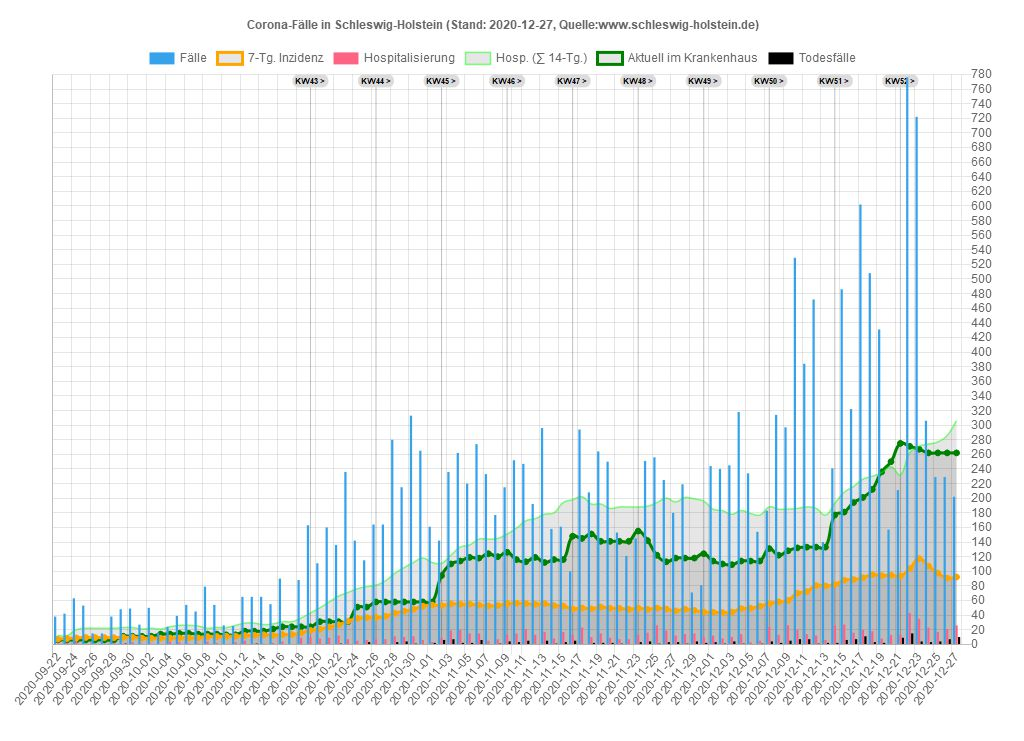
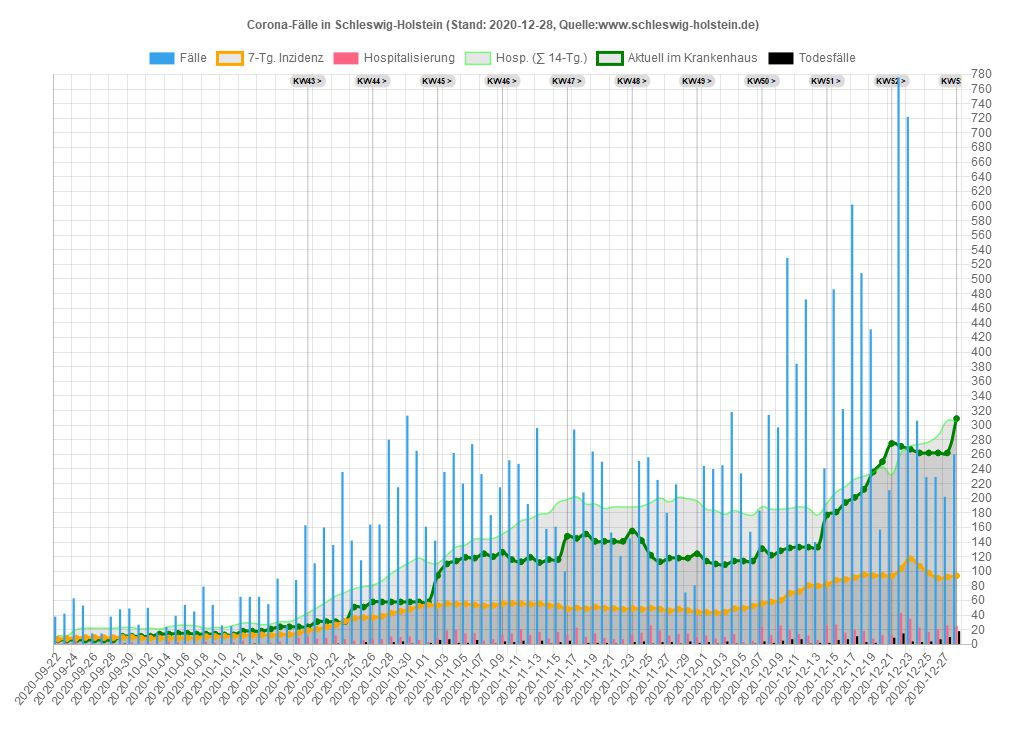
28.12.2020 20:23:44,13

Changed region(s): [[0.0625, 0.0931, 0.9375, 0.9622]]

diff --git a/sh/Data_SH.js b/sh/Data_SH.js
@@ -1,33 +1,33 @@
 var chdata={
-labels: ["2020-09-22","2020-09-23","2020-09-24","2020-09-25","2020-09-26","2020-09-27","2020-09-28","2020-09-29","2020-09-30","2020-10-01","2020-10-02","2020-10-03","2020-10-04","2020-10-05","2020-10-06","2020-10-07","2020-10-08","2020-10-09","2020-10-10","2020-10-11","2020-10-12","2020-10-13","2020-10-14","2020-10-15","2020-10-16","2020-10-17","2020-10-18","2020-10-19","2020-10-20","2020-10-21","2020-10-22","2020-10-23","2020-10-24","2020-10-25","2020-10-26","2020-10-27","2020-10-28","2020-10-29","2020-10-30","2020-10-31","2020-11-01","2020-11-02","2020-11-03","2020-11-04","2020-11-05","2020-11-06","2020-11-07","2020-11-08","2020-11-09","2020-11-10","2020-11-11","2020-11-12","2020-11-13","2020-11-14","2020-11-15","2020-11-16","2020-11-17","2020-11-18","2020-11-19","2020-11-20","2020-11-21","2020-11-22","2020-11-23","2020-11-24","2020-11-25","2020-11-26","2020-11-27","2020-11-28","2020-11-29","2020-11-30","2020-12-01","2020-12-02","2020-12-03","2020-12-04","2020-12-05","2020-12-06","2020-12-07","2020-12-08","2020-12-09","2020-12-10","2020-12-11","2020-12-12","2020-12-13","2020-12-14","2020-12-15","2020-12-16","2020-12-17","2020-12-18","2020-12-19","2020-12-20","2020-12-21","2020-12-22","2020-12-23","2020-12-24","2020-12-25","2020-12-26","2020-12-27"],
+labels: ["2020-09-22","2020-09-23","2020-09-24","2020-09-25","2020-09-26","2020-09-27","2020-09-28","2020-09-29","2020-09-30","2020-10-01","2020-10-02","2020-10-03","2020-10-04","2020-10-05","2020-10-06","2020-10-07","2020-10-08","2020-10-09","2020-10-10","2020-10-11","2020-10-12","2020-10-13","2020-10-14","2020-10-15","2020-10-16","2020-10-17","2020-10-18","2020-10-19","2020-10-20","2020-10-21","2020-10-22","2020-10-23","2020-10-24","2020-10-25","2020-10-26","2020-10-27","2020-10-28","2020-10-29","2020-10-30","2020-10-31","2020-11-01","2020-11-02","2020-11-03","2020-11-04","2020-11-05","2020-11-06","2020-11-07","2020-11-08","2020-11-09","2020-11-10","2020-11-11","2020-11-12","2020-11-13","2020-11-14","2020-11-15","2020-11-16","2020-11-17","2020-11-18","2020-11-19","2020-11-20","2020-11-21","2020-11-22","2020-11-23","2020-11-24","2020-11-25","2020-11-26","2020-11-27","2020-11-28","2020-11-29","2020-11-30","2020-12-01","2020-12-02","2020-12-03","2020-12-04","2020-12-05","2020-12-06","2020-12-07","2020-12-08","2020-12-09","2020-12-10","2020-12-11","2020-12-12","2020-12-13","2020-12-14","2020-12-15","2020-12-16","2020-12-17","2020-12-18","2020-12-19","2020-12-20","2020-12-21","2020-12-22","2020-12-23","2020-12-24","2020-12-25","2020-12-26","2020-12-27","2020-12-28"],
 datasets: [
 {label: 'Fälle',
 type: 'bar',
 backgroundColor: window.chartColors.blue,
-data: [38,42,63,53,15,15,38,48,49,27,50,16,24,39,54,45,79,54,26,25,65,65,65,55,90,26,88,163,111,160,136,236,142,115,164,164,280,215,313,265,161,142,236,262,220,274,233,177,215,252,247,192,296,158,161,100,294,208,264,250,153,121,145,251,256,225,180,219,71,81,244,240,245,318,234,154,183,314,297,529,384,472,140,241,486,322,602,508,431,157,211,776,722,306,229,229,202]},
+data: [38,42,63,53,15,15,38,48,49,27,50,16,24,39,54,45,79,54,26,25,65,65,65,55,90,26,88,163,111,160,136,236,142,115,164,164,280,215,313,265,161,142,236,262,220,274,233,177,215,252,247,192,296,158,161,100,294,208,264,250,153,121,145,251,256,225,180,219,71,81,244,240,245,318,234,154,183,314,297,529,384,472,140,241,486,322,602,508,431,157,211,776,722,306,229,229,202,260]},
 {label: '7-Tg. Inzidenz',
 type: 'line',
 pointBackgroundColor: 'orange',
 borderColor: 'orange',
-data: [7.23197027,7.88629139,8.74724023,9.40156135,9.33268544,9.16049567,9.09161977,9.4359993,9.67706498,8.43729865,8.33398478,8.36842274,8.67836432,8.71280227,8.91943,8.78167818,10.5724518,10.7102036,11.0545831,11.0890211,11.9844079,12.3632254,13.0519844,12.2254735,13.4652399,13.4652399,15.634831,19.0097504,20.5938963,23.8655019,26.6549761,31.6829174,35.67772,36.6075447,36.6419827,38.4671942,42.5997487,45.320347,47.9720694,52.2079377,53.7920836,53.0344486,55.5139813,54.8940981,55.0662879,53.7232077,52.6211932,53.1722004,55.6861711,56.2371783,55.720609,54.7563463,55.5139813,52.9311348,52.3801275,48.4197628,49.8661569,48.5230767,51.0026094,49.4184635,49.2462737,47.8687556,49.4184635,47.9376315,49.5906533,48.2475731,45.8369163,48.1098213,46.3879236,44.1838945,43.9428289,43.3918216,44.0805807,48.8330183,49.3495876,52.2079377,55.720609,58.1312658,60.0942291,69.874608,72.1475129,80.3437459,79.8616145,81.8590158,87.7823439,88.6432927,91.1572633,95.4275696,94.0156135,94.6010587,93.5679201,103.554927,117.330108,107.136474,97.5282848,90.5718181,92.121526]},
+data: [7.23197027,7.88629139,8.74724023,9.40156135,9.33268544,9.16049567,9.09161977,9.4359993,9.67706498,8.43729865,8.33398478,8.36842274,8.67836432,8.71280227,8.91943,8.78167818,10.5724518,10.7102036,11.0545831,11.0890211,11.9844079,12.3632254,13.0519844,12.2254735,13.4652399,13.4652399,15.634831,19.0097504,20.5938963,23.8655019,26.6549761,31.6829174,35.67772,36.6075447,36.6419827,38.4671942,42.5997487,45.320347,47.9720694,52.2079377,53.7920836,53.0344486,55.5139813,54.8940981,55.0662879,53.7232077,52.6211932,53.1722004,55.6861711,56.2371783,55.720609,54.7563463,55.5139813,52.9311348,52.3801275,48.4197628,49.8661569,48.5230767,51.0026094,49.4184635,49.2462737,47.8687556,49.4184635,47.9376315,49.5906533,48.2475731,45.8369163,48.1098213,46.3879236,44.1838945,43.9428289,43.3918216,44.0805807,48.8330183,49.3495876,52.2079377,55.720609,58.1312658,60.0942291,69.874608,72.1475129,80.3437459,79.8616145,81.8590158,87.7823439,88.6432927,91.1572633,95.4275696,94.0156135,94.6010587,93.5679201,103.554927,117.330108,107.136474,97.5282848,90.5718181,92.121526,93.8089858]},
 {label: 'Hospitalisierung',
 type: 'bar',
 backgroundColor: window.chartColors.red,
-data: [1,2,7,1,0,0,2,1,3,1,1,0,4,3,1,1,4,2,0,3,5,1,1,2,4,0,9,10,8,9,12,7,5,6,7,7,11,10,11,6,3,9,19,20,15,15,5,7,13,15,21,13,17,8,17,13,23,10,15,9,7,7,13,16,26,19,12,14,15,10,12,8,10,14,3,5,24,13,26,20,14,12,6,26,27,16,20,18,8,13,13,43,35,23,17,21,26]},
+data: [1,2,7,1,0,0,2,1,3,1,1,0,4,3,1,1,4,2,0,3,5,1,1,2,4,0,9,10,8,9,12,7,5,6,7,7,11,10,11,6,3,9,19,20,15,15,5,7,13,15,21,13,17,8,17,13,23,10,15,9,7,7,13,16,26,19,12,14,15,10,12,8,10,14,3,5,24,13,26,20,14,12,6,26,27,16,20,18,8,13,13,43,35,23,17,21,26,25]},
 {label: 'Hosp. (∑ 14-Tg.)',
 type: 'line',
 borderColor: 'rgba(0,255,0,0.5)',
 borderWidth: 1.5,
 pointRadius: 0,
-data: [12,12,20,22,22,22,22,23,23,21,22,21,24,26,26,25,22,23,23,26,29,29,27,28,31,31,36,43,50,58,66,71,76,79,81,87,97,105,112,118,112,111,122,133,136,144,144,145,151,159,169,172,178,180,194,198,202,192,192,186,188,188,188,189,194,200,195,201,199,196,185,183,178,183,179,177,188,185,185,186,188,186,177,193,208,216,226,230,235,243,232,262,271,274,277,286,306]},
+data: [12,12,20,22,22,22,22,23,23,21,22,21,24,26,26,25,22,23,23,26,29,29,27,28,31,31,36,43,50,58,66,71,76,79,81,87,97,105,112,118,112,111,122,133,136,144,144,145,151,159,169,172,178,180,194,198,202,192,192,186,188,188,188,189,194,200,195,201,199,196,185,183,178,183,179,177,188,185,185,186,188,186,177,193,208,216,226,230,235,243,232,262,271,274,277,286,306,305]},
 {label: 'Aktuell im Krankenhaus',
 type: 'line',
 pointBackgroundColor: 'green',
 borderColor: 'green',
-data: [6,6,6,6,6,6,6,11,11,11,11,14,14,15,15,14,14,14,13,13,18,18,18,21,24,24,24,24,31,31,31,31,51,51,58,58,58,58,58,58,58,94,110,114,119,118,124,120,126,116,113,119,112,116,116,148,145,151,141,141,141,141,155,142,122,113,118,118,118,124,114,110,109,114,114,114,131,122,128,132,133,133,133,177,181,194,201,212,236,250,275,271,267,262,262,262,262]},
+data: [6,6,6,6,6,6,6,11,11,11,11,14,14,15,15,14,14,14,13,13,18,18,18,21,24,24,24,24,31,31,31,31,51,51,58,58,58,58,58,58,58,94,110,114,119,118,124,120,126,116,113,119,112,116,116,148,145,151,141,141,141,141,155,142,122,113,118,118,118,124,114,110,109,114,114,114,131,122,128,132,133,133,133,177,181,194,201,212,236,250,275,271,267,262,262,262,262,309]},
 {label: 'Todesfälle',
 type: 'bar',
 backgroundColor: 'black',
-data: [0,0,0,0,0,0,0,1,0,0,0,0,0,0,0,0,0,0,0,0,0,1,0,0,0,0,0,0,0,0,1,0,0,3,0,0,3,4,1,0,2,6,7,2,2,6,0,1,4,3,5,0,5,1,3,5,0,2,2,2,1,0,3,4,1,3,3,1,4,2,3,1,4,1,0,1,4,2,5,7,7,1,2,2,6,7,11,3,2,0,9,15,4,3,4,7,10]},
+data: [0,0,0,0,0,0,0,1,0,0,0,0,0,0,0,0,0,0,0,0,0,1,0,0,0,0,0,0,0,0,1,0,0,3,0,0,3,4,1,0,2,6,7,2,2,6,0,1,4,3,5,0,5,1,3,5,0,2,2,2,1,0,3,4,1,3,3,1,4,2,3,1,4,1,0,1,4,2,5,7,7,1,2,2,6,7,11,3,2,0,9,15,4,3,4,7,10,18]},
 ]};
 

diff --git a/sh/Data_SH_Alter.js b/sh/Data_SH_Alter.js
@@ -107,7 +107,8 @@ var chdata={
 				{x: '2020-12-24', y: 'Alle', v: 106.206649, casesum: 3084},{x: '2020-12-24', y: '00-09', v: 40.1212206, casesum: 103},{x: '2020-12-24', y: '10-19', v: 103.258251, casesum: 285},{x: '2020-12-24', y: '20-29', v: 147.517518, casesum: 472},{x: '2020-12-24', y: '30-39', v: 122.586577, casesum: 412},{x: '2020-12-24', y: '40-49', v: 121.427741, casesum: 428},{x: '2020-12-24', y: '50-59', v: 102.341336, casesum: 507},{x: '2020-12-24', y: '60-69', v: 85.5500234, casesum: 311},{x: '2020-12-24', y: '70-79', v: 52.0391578, casesum: 154},{x: '2020-12-24', y: '80-89', v: 159.35854, casesum: 285},{x: '2020-12-24', y: '90+', v: 440.727374, casesum: 127},
 				{x: '2020-12-25', y: 'Alle', v: 97.0805914, casesum: 2819},{x: '2020-12-25', y: '00-09', v: 35.0573772, casesum: 90},{x: '2020-12-25', y: '10-19', v: 93.8381998, casesum: 259},{x: '2020-12-25', y: '20-29', v: 132.515736, casesum: 424},{x: '2020-12-25', y: '30-39', v: 113.66037, casesum: 382},{x: '2020-12-25', y: '40-49', v: 105.539999, casesum: 372},{x: '2020-12-25', y: '50-59', v: 96.2856353, casesum: 477},{x: '2020-12-25', y: '60-69', v: 78.9480923, casesum: 287},{x: '2020-12-25', y: '70-79', v: 46.632492, casesum: 138},{x: '2020-12-25', y: '80-89', v: 152.089554, casesum: 272},{x: '2020-12-25', y: '90+', v: 409.494725, casesum: 118},
 				{x: '2020-12-26', y: 'Alle', v: 90.2963145, casesum: 2622},{x: '2020-12-26', y: '00-09', v: 29.9935339, casesum: 77},{x: '2020-12-26', y: '10-19', v: 83.6935295, casesum: 231},{x: '2020-12-26', y: '20-29', v: 120.014252, casesum: 384},{x: '2020-12-26', y: '30-39', v: 108.007105, casesum: 363},{x: '2020-12-26', y: '40-49', v: 97.0287086, casesum: 342},{x: '2020-12-26', y: '50-59', v: 87.0002281, casesum: 431},{x: '2020-12-26', y: '60-69', v: 75.9222072, casesum: 276},{x: '2020-12-26', y: '70-79', v: 44.6049924, casesum: 132},{x: '2020-12-26', y: '80-89', v: 148.734637, casesum: 266},{x: '2020-12-26', y: '90+', v: 416.435314, casesum: 120},
-				{x: '2020-12-27', y: 'Alle', v: 91.8115844, casesum: 2666},{x: '2020-12-27', y: '00-09', v: 29.9935339, casesum: 77},{x: '2020-12-27', y: '10-19', v: 78.983504, casesum: 218},{x: '2020-12-27', y: '20-29', v: 120.639326, casesum: 386},{x: '2020-12-27', y: '30-39', v: 108.304645, casesum: 364},{x: '2020-12-27', y: '40-49', v: 97.3124183, casesum: 343},{x: '2020-12-27', y: '50-59', v: 87.2020848, casesum: 432},{x: '2020-12-27', y: '60-69', v: 75.3720463, casesum: 274},{x: '2020-12-27', y: '70-79', v: 49.6737415, casesum: 147},{x: '2020-12-27', y: '80-89', v: 159.917693, casesum: 286},{x: '2020-12-27', y: '90+', v: 482.370905, casesum: 139}
+				{x: '2020-12-27', y: 'Alle', v: 91.8115844, casesum: 2666},{x: '2020-12-27', y: '00-09', v: 29.9935339, casesum: 77},{x: '2020-12-27', y: '10-19', v: 78.983504, casesum: 218},{x: '2020-12-27', y: '20-29', v: 120.639326, casesum: 386},{x: '2020-12-27', y: '30-39', v: 108.304645, casesum: 364},{x: '2020-12-27', y: '40-49', v: 97.3124183, casesum: 343},{x: '2020-12-27', y: '50-59', v: 87.2020848, casesum: 432},{x: '2020-12-27', y: '60-69', v: 75.3720463, casesum: 274},{x: '2020-12-27', y: '70-79', v: 49.6737415, casesum: 147},{x: '2020-12-27', y: '80-89', v: 159.917693, casesum: 286},{x: '2020-12-27', y: '90+', v: 482.370905, casesum: 139},
+				{x: '2020-12-28', y: 'Alle', v: 93.7056719, casesum: 2721},{x: '2020-12-28', y: '00-09', v: 31.1621131, casesum: 80},{x: '2020-12-28', y: '10-19', v: 73.5488593, casesum: 203},{x: '2020-12-28', y: '20-29', v: 125.63992, casesum: 402},{x: '2020-12-28', y: '30-39', v: 113.362829, casesum: 381},{x: '2020-12-28', y: '40-49', v: 99.298386, casesum: 350},{x: '2020-12-28', y: '50-59', v: 88.4132248, casesum: 438},{x: '2020-12-28', y: '60-69', v: 71.5209199, casesum: 260},{x: '2020-12-28', y: '70-79', v: 50.0116581, casesum: 148},{x: '2020-12-28', y: '80-89', v: 171.659901, casesum: 307},{x: '2020-12-28', y: '90+', v: 527.484731, casesum: 152}
 			],
 			backgroundColor: function(context) {
 				return inzColor(context.dataset.data[context.dataIndex].v)
@@ -115,7 +116,7 @@ var chdata={
 			width: function(context) {
 				const a = context.chart.chartArea
 				if (!a) return 0
-				return (a.right - a.left) / 104.5
+				return (a.right - a.left) / 105.5
 			},
 			height: function(context) {
 				const a = context.chart.chartArea
@@ -127,7 +128,7 @@ var chdata={
 	options: {
 		legend: { display: false },
 		scales: {
-			xAxes: [{type: 'category', labels: ["2020-09-15","2020-09-16","2020-09-17","2020-09-18","2020-09-19","2020-09-20","2020-09-21","2020-09-22","2020-09-23","2020-09-24","2020-09-25","2020-09-26","2020-09-27","2020-09-28","2020-09-29","2020-09-30","2020-10-01","2020-10-02","2020-10-03","2020-10-04","2020-10-05","2020-10-06","2020-10-07","2020-10-08","2020-10-09","2020-10-10","2020-10-11","2020-10-12","2020-10-13","2020-10-14","2020-10-15","2020-10-16","2020-10-17","2020-10-18","2020-10-19","2020-10-20","2020-10-21","2020-10-22","2020-10-23","2020-10-24","2020-10-25","2020-10-26","2020-10-27","2020-10-28","2020-10-29","2020-10-30","2020-10-31","2020-11-01","2020-11-02","2020-11-03","2020-11-04","2020-11-05","2020-11-06","2020-11-07","2020-11-08","2020-11-09","2020-11-10","2020-11-11","2020-11-12","2020-11-13","2020-11-14","2020-11-15","2020-11-16","2020-11-17","2020-11-18","2020-11-19","2020-11-20","2020-11-21","2020-11-22","2020-11-23","2020-11-24","2020-11-25","2020-11-26","2020-11-27","2020-11-28","2020-11-29","2020-11-30","2020-12-01","2020-12-02","2020-12-03","2020-12-04","2020-12-05","2020-12-06","2020-12-07","2020-12-08","2020-12-09","2020-12-10","2020-12-11","2020-12-12","2020-12-13","2020-12-14","2020-12-15","2020-12-16","2020-12-17","2020-12-18","2020-12-19","2020-12-20","2020-12-21","2020-12-22","2020-12-23","2020-12-24","2020-12-25","2020-12-26","2020-12-27",], ticks: {display: true},gridlines:{display:false}}],
+			xAxes: [{type: 'category', labels: ["2020-09-15","2020-09-16","2020-09-17","2020-09-18","2020-09-19","2020-09-20","2020-09-21","2020-09-22","2020-09-23","2020-09-24","2020-09-25","2020-09-26","2020-09-27","2020-09-28","2020-09-29","2020-09-30","2020-10-01","2020-10-02","2020-10-03","2020-10-04","2020-10-05","2020-10-06","2020-10-07","2020-10-08","2020-10-09","2020-10-10","2020-10-11","2020-10-12","2020-10-13","2020-10-14","2020-10-15","2020-10-16","2020-10-17","2020-10-18","2020-10-19","2020-10-20","2020-10-21","2020-10-22","2020-10-23","2020-10-24","2020-10-25","2020-10-26","2020-10-27","2020-10-28","2020-10-29","2020-10-30","2020-10-31","2020-11-01","2020-11-02","2020-11-03","2020-11-04","2020-11-05","2020-11-06","2020-11-07","2020-11-08","2020-11-09","2020-11-10","2020-11-11","2020-11-12","2020-11-13","2020-11-14","2020-11-15","2020-11-16","2020-11-17","2020-11-18","2020-11-19","2020-11-20","2020-11-21","2020-11-22","2020-11-23","2020-11-24","2020-11-25","2020-11-26","2020-11-27","2020-11-28","2020-11-29","2020-11-30","2020-12-01","2020-12-02","2020-12-03","2020-12-04","2020-12-05","2020-12-06","2020-12-07","2020-12-08","2020-12-09","2020-12-10","2020-12-11","2020-12-12","2020-12-13","2020-12-14","2020-12-15","2020-12-16","2020-12-17","2020-12-18","2020-12-19","2020-12-20","2020-12-21","2020-12-22","2020-12-23","2020-12-24","2020-12-25","2020-12-26","2020-12-27","2020-12-28",], ticks: {display: true},gridlines:{display:false}}],
 			yAxes: [{type: 'category', labels: ["Alle","00-09","10-19","20-29","30-39","40-49","50-59","60-69","70-79","80-89","90+"], offset:true, ticks: {display: true},gridlines:{display:false}}],
 		},
 	}

diff --git a/sh/Kreis_PI.js b/sh/Kreis_PI.js
@@ -1,33 +1,33 @@
 var chdata={
-labels: ["2020-09-22","2020-09-23","2020-09-24","2020-09-25","2020-09-26","2020-09-27","2020-09-28","2020-09-29","2020-09-30","2020-10-01","2020-10-02","2020-10-03","2020-10-04","2020-10-05","2020-10-06","2020-10-07","2020-10-08","2020-10-09","2020-10-10","2020-10-11","2020-10-12","2020-10-13","2020-10-14","2020-10-15","2020-10-16","2020-10-17","2020-10-18","2020-10-19","2020-10-20","2020-10-21","2020-10-22","2020-10-23","2020-10-24","2020-10-25","2020-10-26","2020-10-27","2020-10-28","2020-10-29","2020-10-30","2020-10-31","2020-11-01","2020-11-02","2020-11-03","2020-11-04","2020-11-05","2020-11-06","2020-11-07","2020-11-08","2020-11-09","2020-11-10","2020-11-11","2020-11-12","2020-11-13","2020-11-14","2020-11-15","2020-11-16","2020-11-17","2020-11-18","2020-11-19","2020-11-20","2020-11-21","2020-11-22","2020-11-23","2020-11-24","2020-11-25","2020-11-26","2020-11-27","2020-11-28","2020-11-29","2020-11-30","2020-12-01","2020-12-02","2020-12-03","2020-12-04","2020-12-05","2020-12-06","2020-12-07","2020-12-08","2020-12-09","2020-12-10","2020-12-11","2020-12-12","2020-12-13","2020-12-14","2020-12-15","2020-12-16","2020-12-17","2020-12-18","2020-12-19","2020-12-20","2020-12-21","2020-12-22","2020-12-23","2020-12-24","2020-12-25","2020-12-26","2020-12-27"],
+labels: ["2020-09-22","2020-09-23","2020-09-24","2020-09-25","2020-09-26","2020-09-27","2020-09-28","2020-09-29","2020-09-30","2020-10-01","2020-10-02","2020-10-03","2020-10-04","2020-10-05","2020-10-06","2020-10-07","2020-10-08","2020-10-09","2020-10-10","2020-10-11","2020-10-12","2020-10-13","2020-10-14","2020-10-15","2020-10-16","2020-10-17","2020-10-18","2020-10-19","2020-10-20","2020-10-21","2020-10-22","2020-10-23","2020-10-24","2020-10-25","2020-10-26","2020-10-27","2020-10-28","2020-10-29","2020-10-30","2020-10-31","2020-11-01","2020-11-02","2020-11-03","2020-11-04","2020-11-05","2020-11-06","2020-11-07","2020-11-08","2020-11-09","2020-11-10","2020-11-11","2020-11-12","2020-11-13","2020-11-14","2020-11-15","2020-11-16","2020-11-17","2020-11-18","2020-11-19","2020-11-20","2020-11-21","2020-11-22","2020-11-23","2020-11-24","2020-11-25","2020-11-26","2020-11-27","2020-11-28","2020-11-29","2020-11-30","2020-12-01","2020-12-02","2020-12-03","2020-12-04","2020-12-05","2020-12-06","2020-12-07","2020-12-08","2020-12-09","2020-12-10","2020-12-11","2020-12-12","2020-12-13","2020-12-14","2020-12-15","2020-12-16","2020-12-17","2020-12-18","2020-12-19","2020-12-20","2020-12-21","2020-12-22","2020-12-23","2020-12-24","2020-12-25","2020-12-26","2020-12-27","2020-12-28"],
 datasets: [
 {label: 'Fälle',
 type: 'bar',
 backgroundColor: window.chartColors.blue,
 yAxisID: 'first-y-axis',
-data: [7,7,2,17,0,9,3,8,10,6,6,7,4,2,7,6,7,4,8,3,11,12,17,9,3,0,36,10,12,34,0,73,34,8,10,0,27,36,60,67,0,32,26,49,42,43,45,24,7,36,47,34,28,43,18,0,51,51,49,47,42,31,55,50,68,43,0,73,18,32,47,59,40,42,0,12,34,75,37,98,53,92,19,17,79,62,92,53,113,32,41,100,122,62,62,52,17]},
+data: [7,7,2,17,0,9,3,8,10,6,6,7,4,2,7,6,7,4,8,3,11,12,17,9,3,0,36,10,12,34,0,73,34,8,10,0,27,36,60,67,0,32,26,49,42,43,45,24,7,36,47,34,28,43,18,0,51,51,49,47,42,31,55,50,68,43,0,73,18,32,47,59,40,42,0,12,34,75,37,98,53,92,19,17,79,62,92,53,113,32,41,100,122,59,56,51,20,47]},
 {label: '7-Tg. Inzidenz',
 type: 'line',
 pointBackgroundColor: 'orange',
 borderColor: 'orange',
 yAxisID: 'first-y-axis',
-data: [10.4300994,12.0104175,11.3782902,14.5389264,12.0104175,14.2228628,14.2228628,14.5389264,15.4871172,16.7513717,13.2746719,15.4871172,13.9067992,13.5907355,13.2746719,12.0104175,12.3264811,11.6943538,12.0104175,11.6943538,14.5389264,16.1192445,19.5959443,20.2280715,19.9120079,17.383499,27.8135983,27.4975347,27.4975347,32.8706162,30.0260436,52.1504969,62.8966598,54.0468786,54.0468786,50.2541151,48.0416698,59.41996,55.311133,65.7412324,63.2127235,70.166123,78.3837771,85.3371767,87.2335584,81.8604769,74.9070773,82.4926041,74.5910137,77.7516499,77.1195226,74.5910137,69.8500594,69.2179322,67.3215505,65.1091052,69.8500594,71.1143139,75.8552681,81.8604769,81.5444133,85.6532403,103.036739,102.720676,108.093757,106.197375,91.3423854,101.140358,97.0315305,89.7620673,88.8138765,85.9693039,85.021113,98.295785,75.2231409,86.0,87.9,97.8,89.8,107.6,109.8,127.5,129.7,124.3,125.0,113.3,129.4,112.6,83.5,77.5,72.1,155.6,169.6,164.8,168.0,149.3,144.3]},
+data: [10.4300994,12.0104175,11.3782902,14.5389264,12.0104175,14.2228628,14.2228628,14.5389264,15.4871172,16.7513717,13.2746719,15.4871172,13.9067992,13.5907355,13.2746719,12.0104175,12.3264811,11.6943538,12.0104175,11.6943538,14.5389264,16.1192445,19.5959443,20.2280715,19.9120079,17.383499,27.8135983,27.4975347,27.4975347,32.8706162,30.0260436,52.1504969,62.8966598,54.0468786,54.0468786,50.2541151,48.0416698,59.41996,55.311133,65.7412324,63.2127235,70.166123,78.3837771,85.3371767,87.2335584,81.8604769,74.9070773,82.4926041,74.5910137,77.7516499,77.1195226,74.5910137,69.8500594,69.2179322,67.3215505,65.1091052,69.8500594,71.1143139,75.8552681,81.8604769,81.5444133,85.6532403,103.036739,102.720676,108.093757,106.197375,91.3423854,101.140358,97.0315305,89.7620673,88.8138765,85.9693039,85.021113,98.295785,75.2231409,86.0,87.9,97.8,89.8,107.6,109.8,127.5,129.7,124.3,125.0,113.3,129.4,112.6,83.5,77.5,72.1,155.6,169.6,164.8,168.0,149.3,144.3,143.9]},
 {label: 'Hospitalisierung',
 type: 'bar',
 backgroundColor: window.chartColors.red,
 yAxisID: 'first-y-axis',
-data: [0,0,0,0,0,0,1,1,0,0,0,0,1,1,1,-1,2,0,0,0,0,0,0,0,0,0,3,2,0,1,0,5,0,1,1,0,1,2,5,2,0,2,1,2,5,3,0,0,3,4,2,3,3,1,1,0,6,1,2,2,2,0,1,2,6,4,0,6,4,4,3,3,2,5,0,2,4,1,6,7,4,1,0,9,5,0,7,0,0,0,0,25,8,6,2,3,3]},
+data: [0,0,0,0,0,0,1,1,0,0,0,0,1,1,1,-1,2,0,0,0,0,0,0,0,0,0,3,2,0,1,0,5,0,1,1,0,1,2,5,2,0,2,1,2,5,3,0,0,3,4,2,3,3,1,1,0,6,1,2,2,2,0,1,2,6,4,0,6,4,4,3,3,2,5,0,2,4,1,6,7,4,1,0,9,5,0,7,0,0,0,0,25,8,6,2,3,3,5]},
 {label: 'Hospitalisierung (∑ 14-Tg.)',
 type: 'line',
 pointRadius: 0,
 borderColor: 'rgba(0,128,0,0.5)',
 borderWidth: 1.5,
 yAxisID: 'first-y-axis',
-data: [2,2,2,2,2,2,3,4,3,2,2,2,3,4,5,4,6,6,6,6,5,4,4,4,4,4,6,7,6,8,6,11,11,12,13,13,14,16,21,23,20,20,21,22,27,25,25,24,26,30,31,32,30,29,30,28,33,32,29,28,30,30,28,26,30,31,28,33,36,40,37,39,39,42,40,42,45,44,44,47,51,46,42,47,49,46,51,46,46,44,40,64,66,65,63,65,68]},
+data: [2,2,2,2,2,2,3,4,3,2,2,2,3,4,5,4,6,6,6,6,5,4,4,4,4,4,6,7,6,8,6,11,11,12,13,13,14,16,21,23,20,20,21,22,27,25,25,24,26,30,31,32,30,29,30,28,33,32,29,28,30,30,28,26,30,31,28,33,36,40,37,39,39,42,40,42,45,44,44,47,51,46,42,47,49,46,51,46,46,44,40,64,66,65,63,65,68,64]},
 {label: 'Todesfälle',
 type: 'bar',
 backgroundColor: 'black',
 yAxisID: 'first-y-axis',
-data: [0,0,0,0,0,0,0,0,0,0,0,0,0,0,0,0,0,0,0,0,0,0,0,0,0,0,0,0,0,0,0,0,0,0,0,0,1,0,0,0,0,0,0,0,0,0,0,0,0,1,0,0,0,0,0,0,0,0,0,0,0,0,0,0,0,1,0,1,0,2,0,0,2,1,0,0,0,1,0,2,1,0,0,0,1,0,7,0,0,0,0,4,0,0,2,0,2]},
+data: [0,0,0,0,0,0,0,0,0,0,0,0,0,0,0,0,0,0,0,0,0,0,0,0,0,0,0,0,0,0,0,0,0,0,0,0,1,0,0,0,0,0,0,0,0,0,0,0,0,1,0,0,0,0,0,0,0,0,0,0,0,0,0,0,0,1,0,1,0,2,0,0,2,1,0,0,0,1,0,2,1,0,0,0,1,0,7,0,0,0,0,4,0,0,2,0,2,3]},
 ]};
 

diff --git a/sterblichkeit/index_ueber.html b/sterblichkeit/index_ueber.html
@@ -51,11 +51,8 @@
 <a class="button button-outline" href="#Anmerkungen">Anmerkungen / Quellen</a>
 <h1>Übersterblichkeit und COVID-19 Sterbefälle im Vergleich</h1>
 <p>Stand: EUROSTAT: <span id="eurostat_date"></span>, ECDC: <span id="ecdc_date"></span>, Johns Hopkins University: <span id="jh_date"></span>, CDC: <span id="cdc_date"></span></p>
-<a class="button button-outline" id="btnbigcharts" data-state="notactive" href="javascript:bigCharts()">Große Charts</a>
-<a class="button button-outline" id="btnsmallcharts" data-state="active" href="javascript:smallCharts()">Kleine Charts</a>
-<a class="button button-outline" id="btnfirstjan" data-state="notactive" href="javascript:byYearStart(true)">Ab dem 01.01.</a>
-<a class="button button-outline" id="btnfirstcovid" data-state="active" href="javascript:byYearStart(false)">Ab dem 1. Covid-19 Todesfall</a> <a class="button button-outline" id="btnecdcdata" data-state="notactive" href="javascript:dataSourceECDC(true)">ECDC</a>
-<a class="button button-outline" id="btnjhdata" data-state="active" href="javascript:dataSourceECDC(false)">JHU</a>
+<a class="button button-outline" id="btnbigcharts" data-state="notactive" href="javascript:bigCharts()">Große Charts</a><a class="button button-outline" id="btnsmallcharts" data-state="active" href="javascript:smallCharts()">Kleine Charts</a>
+<a class="button button-outline" id="btnfirstjan" data-state="notactive" href="javascript:byYearStart(true)">Ab dem 01.01.</a><a class="button button-outline" id="btnfirstcovid" data-state="active" href="javascript:byYearStart(false)">Ab dem 1. Covid-19 Todesfall</a> <a class="button button-outline" id="btnecdcdata" data-state="notactive" href="javascript:dataSourceECDC(true)">ECDC</a><a class="button button-outline" id="btnjhdata" data-state="active" href="javascript:dataSourceECDC(false)">JHU</a>
 <a class="button button-outline" id="btnprogn" data-state="notactive" href="javascript:prognose()">Prognose</a>
 <div id="countrySelect"><a class="button button-outline button-small" href="javascript:toggleCountry('None')">Keins</a></div>
 <div class="container-all">
@@ -566,6 +563,9 @@ function calcExcess(config,byYearStart,addProgn,useECDCData) {
                         prognExc=(cases.data[i]-avg.data[i])
                     } else {
                         prognExc+=(covid.data[i]-covid.data[i-1])
+                        if (i==lastCasesCWix) { //not less than excess deaths on last 2020 cases data pt
+                            prognExc=Math.max(prognExc,cases.data[i]-avg.data[i])
+                        }
                         prognSumExcess+=prognExc
                         prognSumAvg+=avg.data[i]
                     }

diff --git a/sh/index_sh_alter.html b/sh/index_sh_alter.html
@@ -5,7 +5,7 @@
 <meta property="og:image" content="index_sh_alter.jpg" />
 <meta property="og:type" content="website" />
 <meta property="og:locale" content="de_DE" />
-<meta property="og:updated_time" content="2020-12-28T15:44:30+01:00" />
+<meta property="og:updated_time" content="2020-12-28T20:23:42+01:00" />
 <title>Altersverteilung der Corona-Fälle in Schleswig-Holstein</title>
 <link rel="stylesheet" href="../css/style.css" media="screen" type="text/css">
 <link rel="stylesheet" media="screen" href="Chart.min.css"> 

diff --git a/sh/index_pi_alter.html b/sh/index_pi_alter.html
@@ -5,7 +5,7 @@
 <meta property="og:image" content="index_pi_alter.jpg" />
 <meta property="og:type" content="website" />
 <meta property="og:locale" content="de_DE" />
-<meta property="og:updated_time" content="2020-12-28T15:44:30+01:00" />
+<meta property="og:updated_time" content="2020-12-28T20:23:42+01:00" />
 <title>Altersverteilung der Corona-Fälle im Kreis Pinneberg</title>
 <link rel="stylesheet" href="../css/style.css" media="screen" type="text/css">
 <link rel="stylesheet" media="screen" href="Chart.min.css"> 

diff --git a/sh/index.html b/sh/index.html
@@ -5,7 +5,7 @@
 <meta property="og:image" content="index.jpg" />
 <meta property="og:type" content="website" />
 <meta property="og:locale" content="de_DE" />
-<meta property="og:updated_time" content="2020-12-28T15:44:30+01:00" />
+<meta property="og:updated_time" content="2020-12-28T20:23:42+01:00" />
 <title>Corona-Fälle im Kreis Pinneberg</title>
 <link rel="stylesheet" href="../css/style.css" media="screen" type="text/css">
 <link rel="stylesheet" media="screen" href="Chart.min.css"> 
